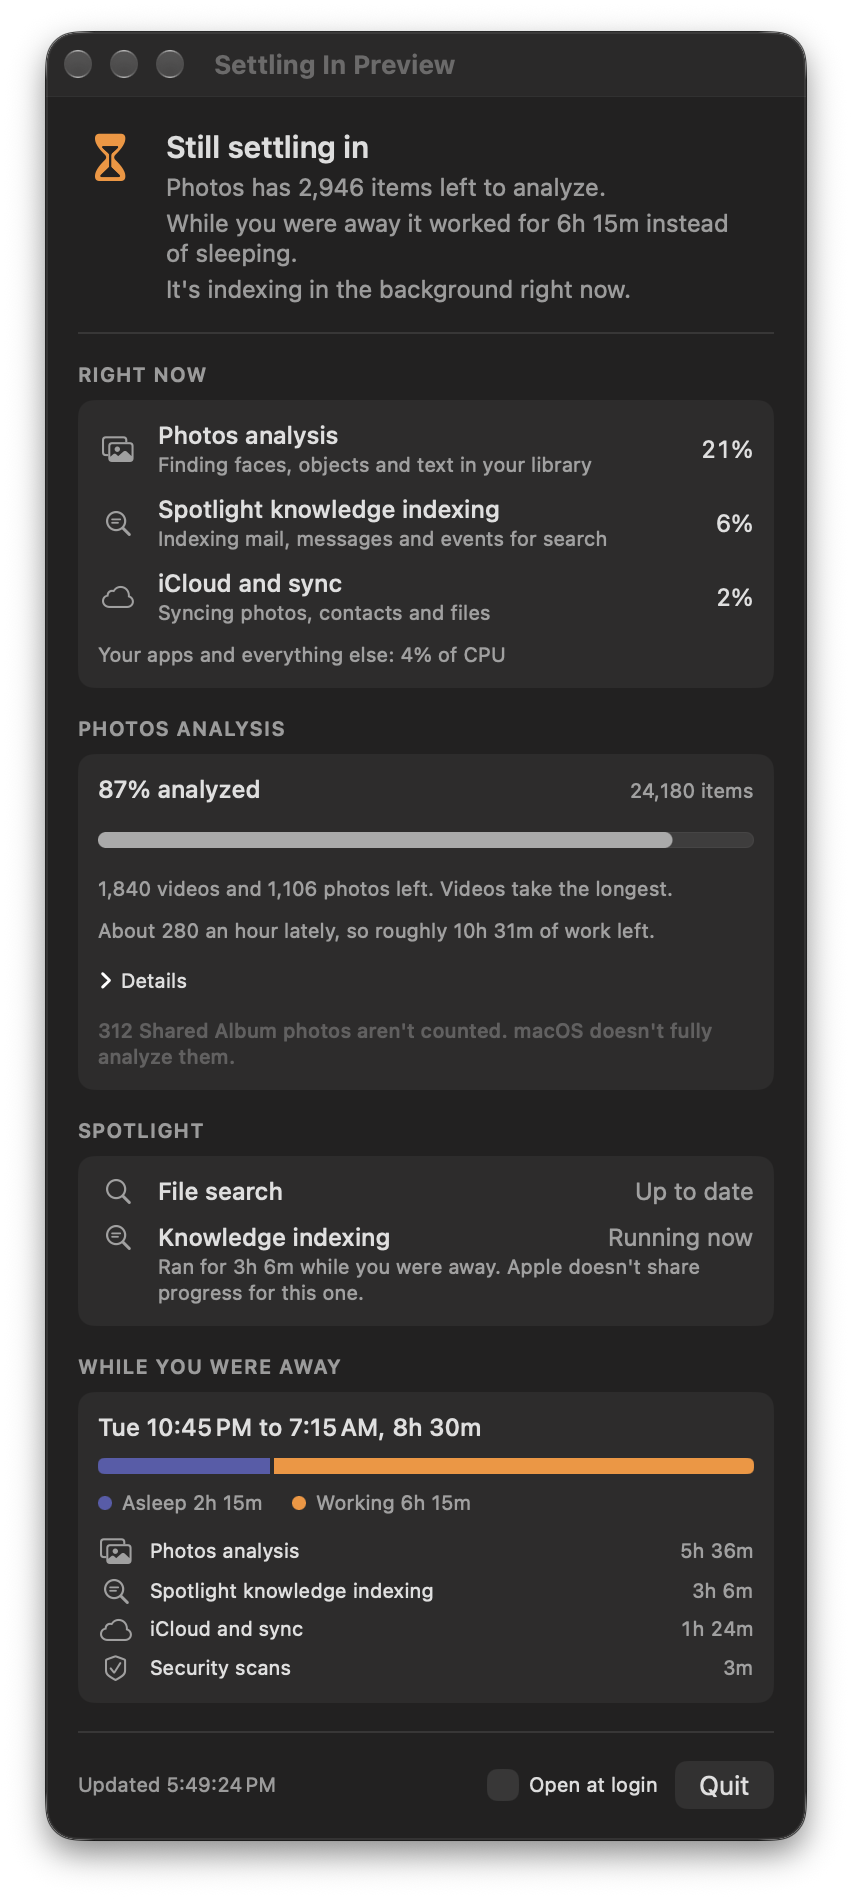
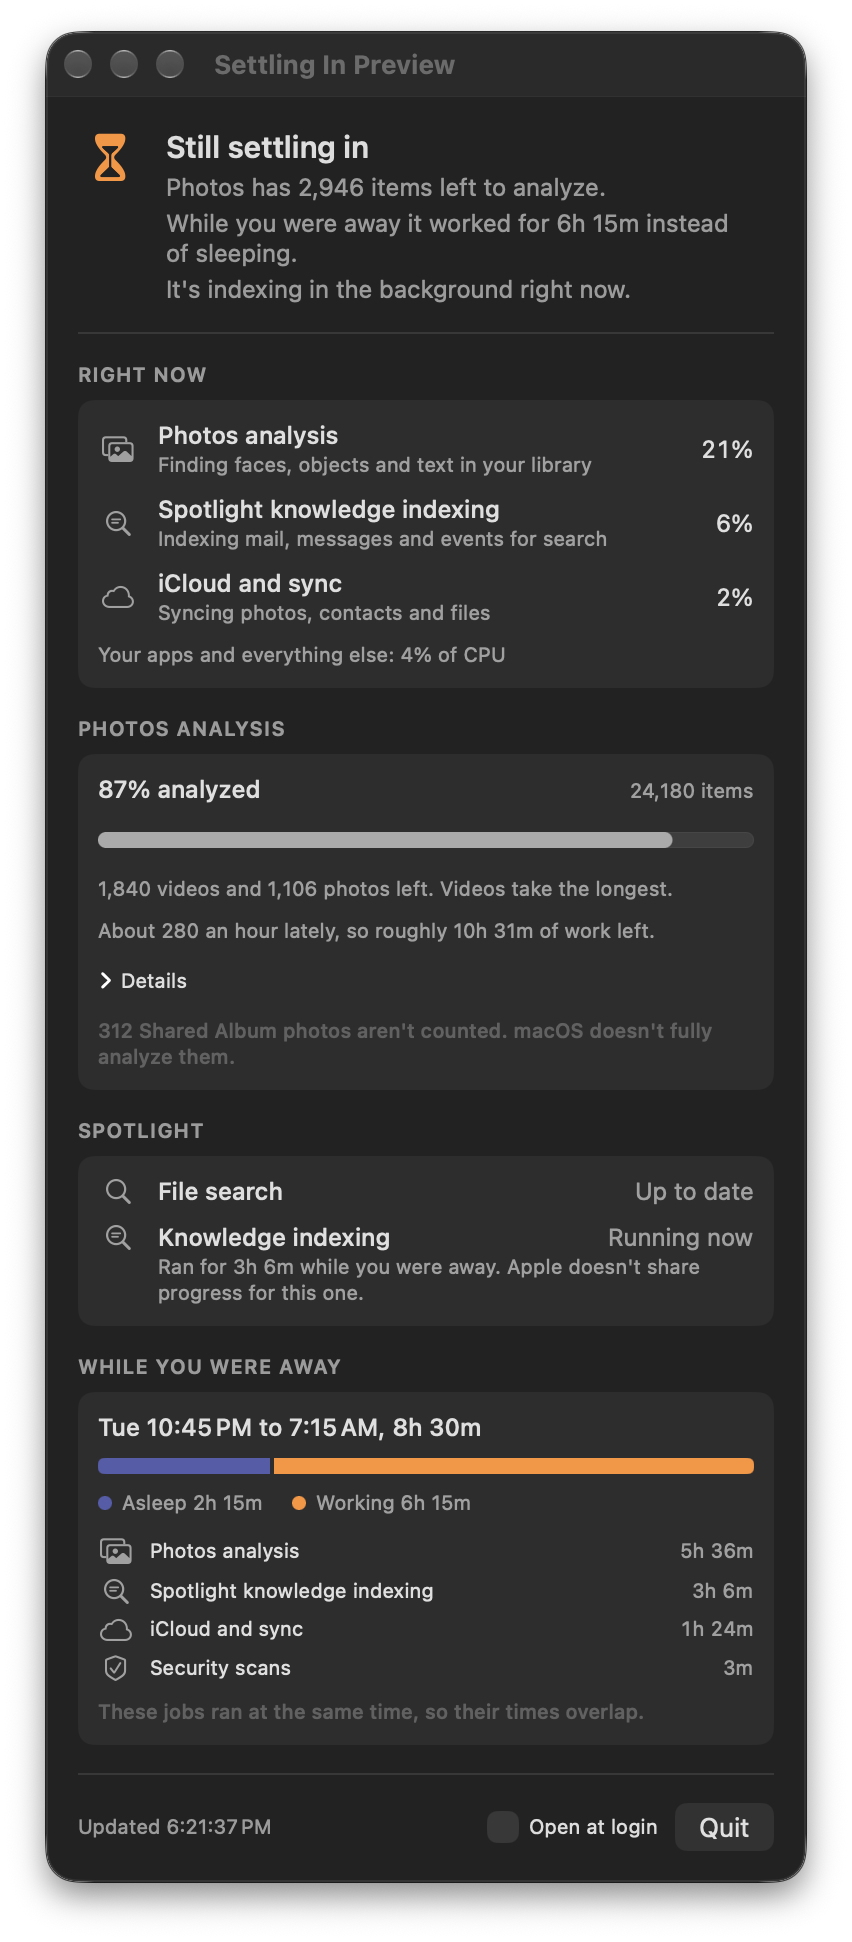
Note that the away section's job times overlap

diff --git a/App/PanelView.swift b/App/PanelView.swift
@@ -302,6 +302,11 @@ struct AwaySection: View {
                 }
             }
             .padding(.top, 2)
+            if away.tasks.count > 1 {
+                Text("These jobs ran at the same time, so their times overlap.")
+                    .font(.caption2).foregroundStyle(.tertiary)
+                    .fixedSize(horizontal: false, vertical: true)
+            }
         }
     }
 
